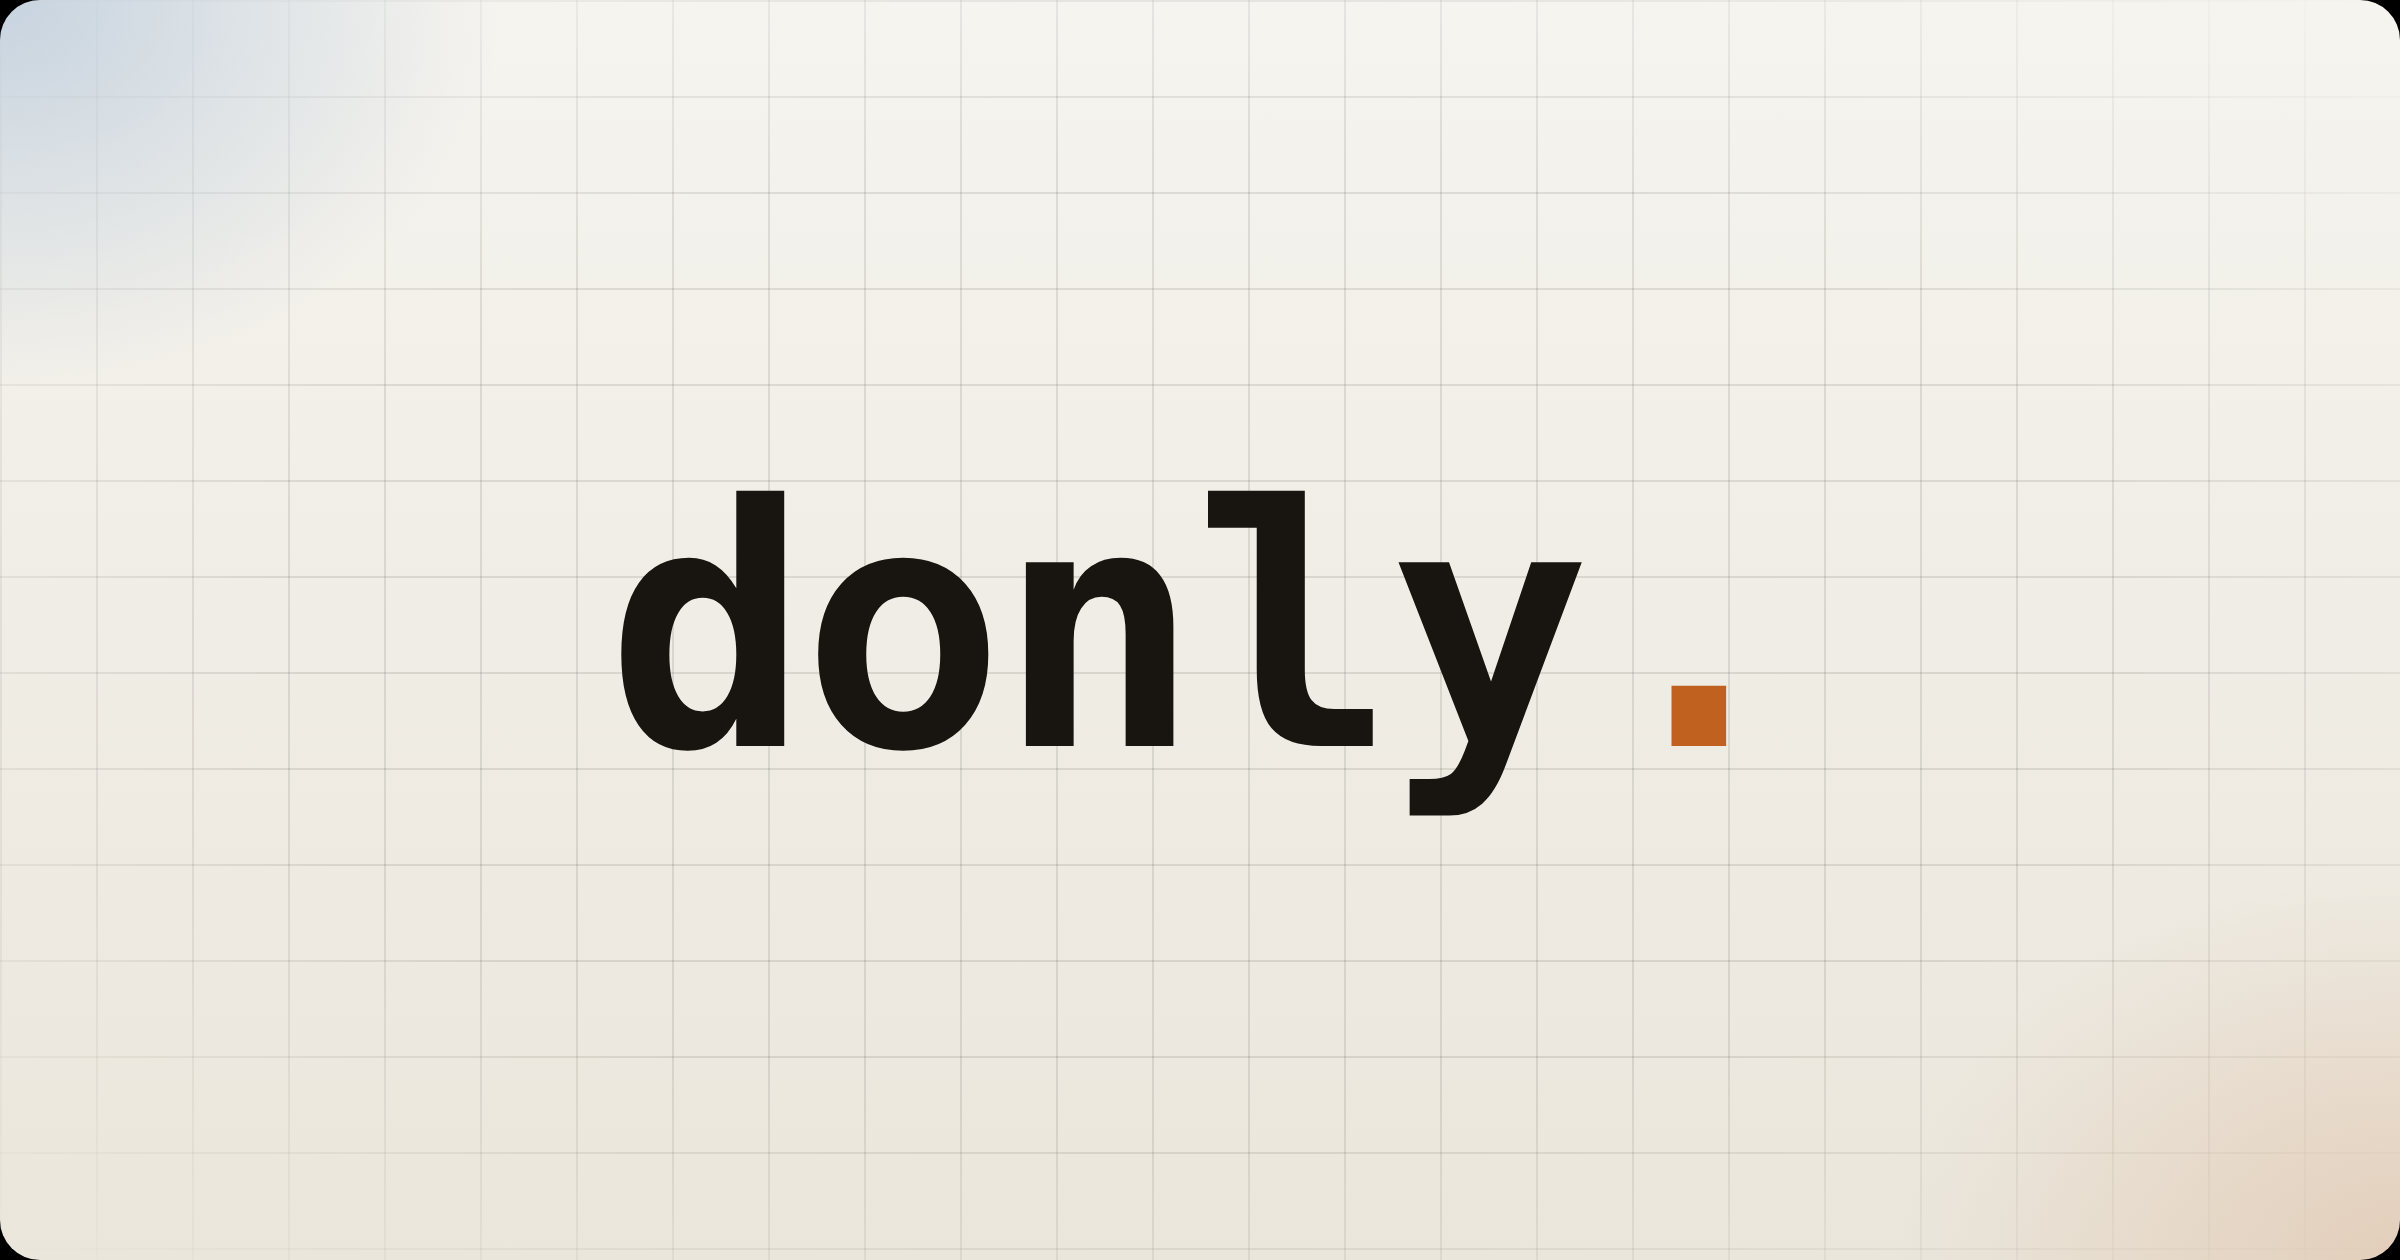
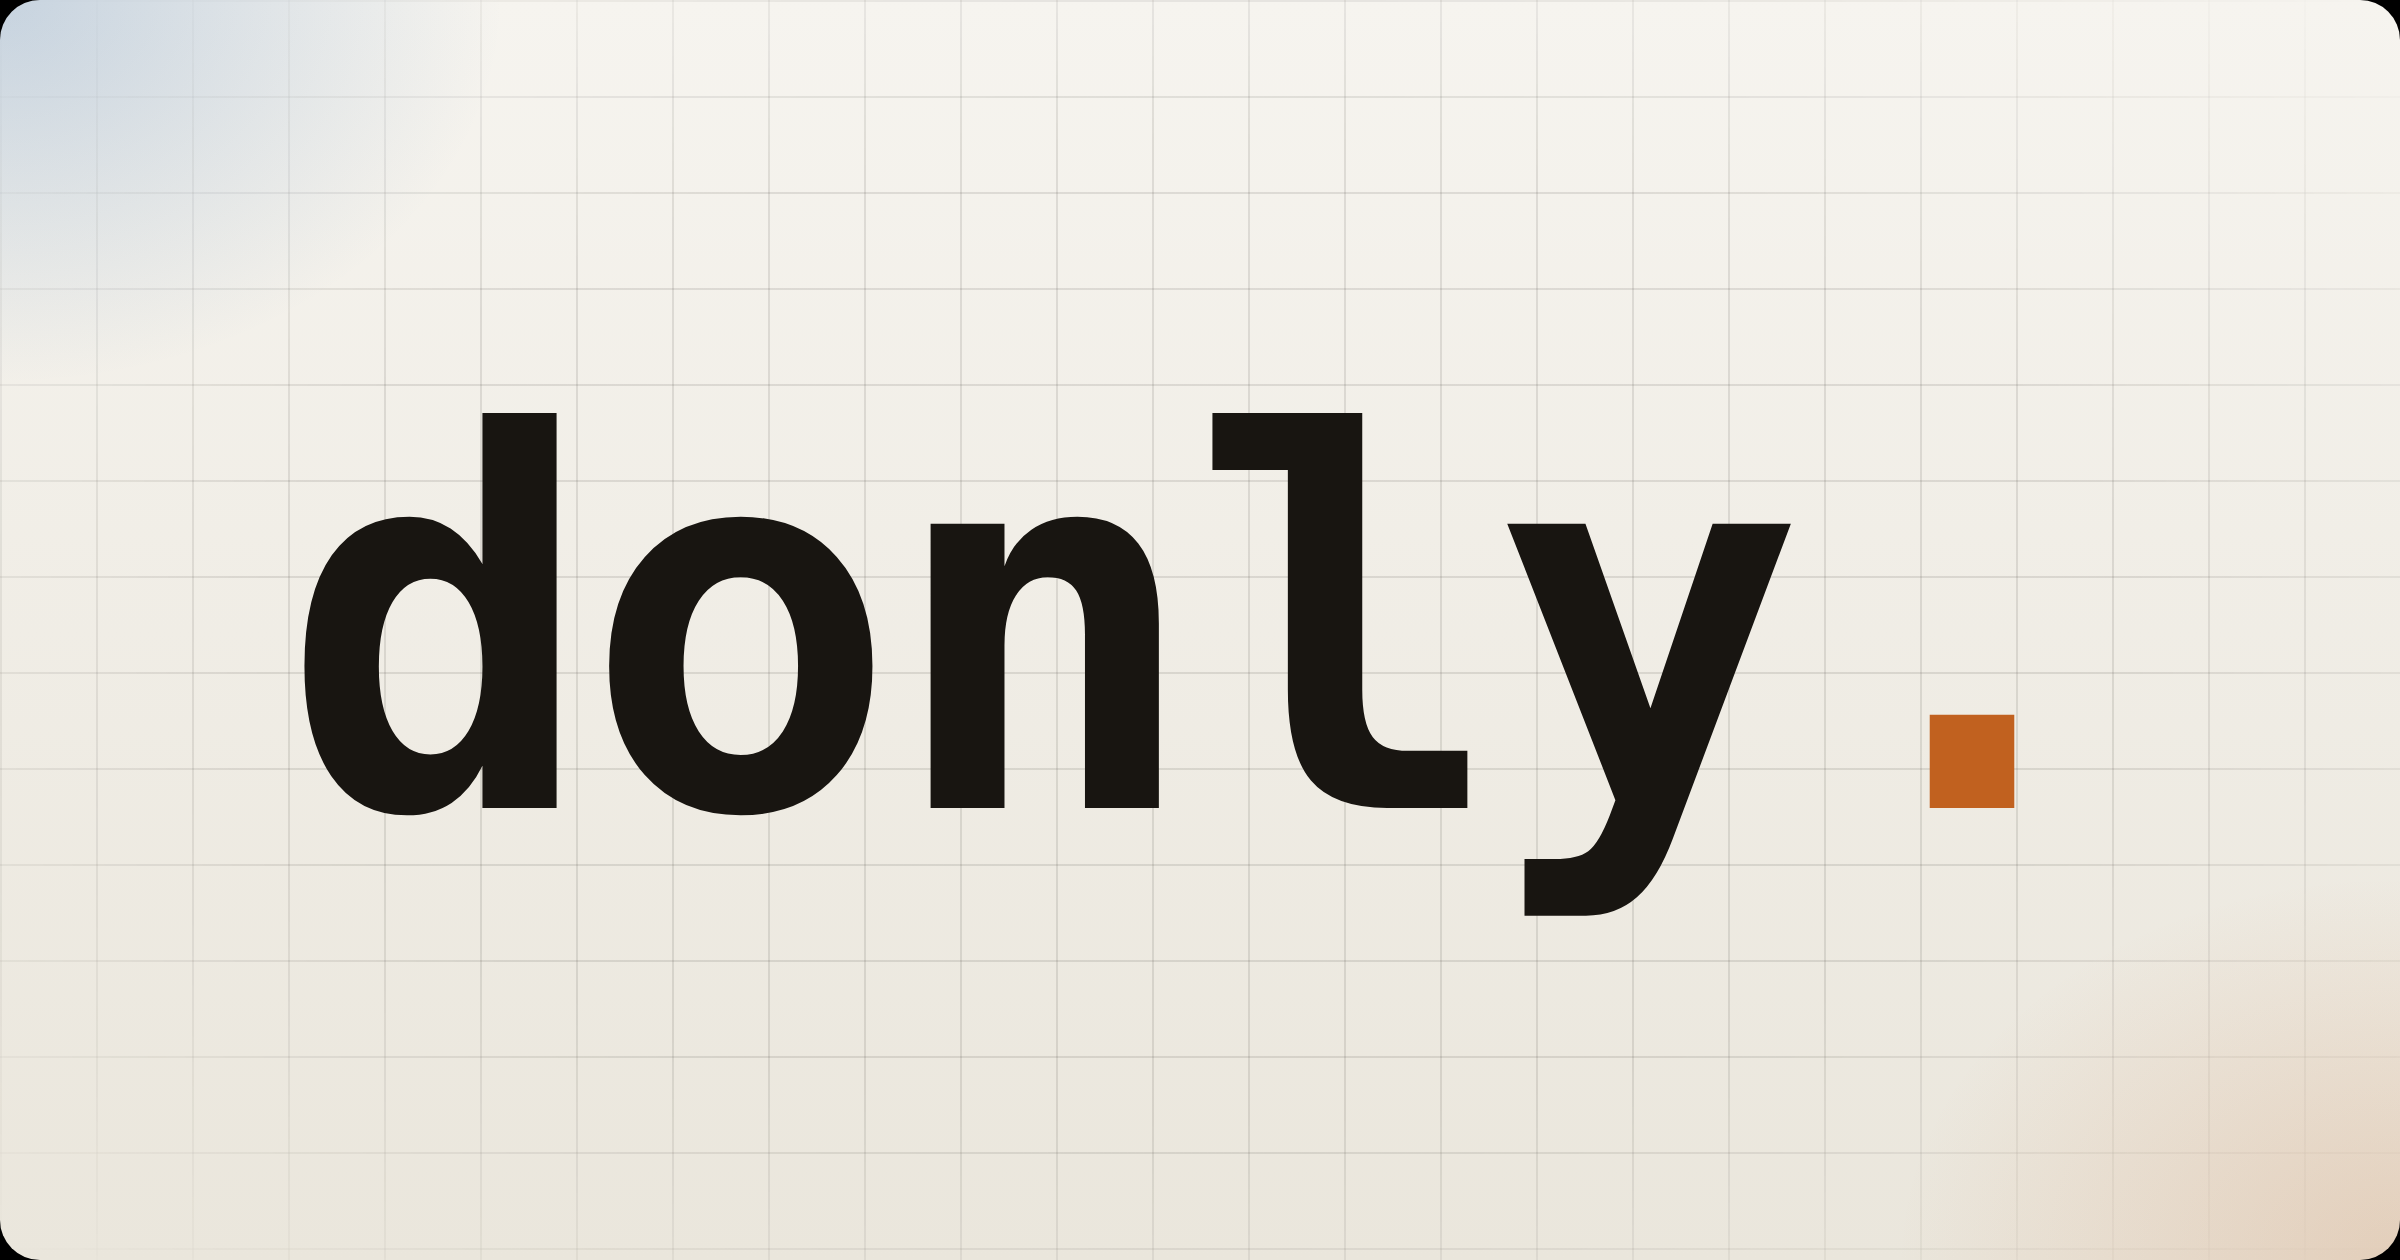
Shrink whitespace around variant 00 wordmark
Bumps the wordmark size from clamp(64px, 15vw, 168px) to
clamp(64px, 24vw, 260px) so "donly." fills most of the cover width
instead of leaving a large empty margin around a small mark. Updates
BRAND.md's dimensions spec to match, since variant 00 is the
reference implementation of that doc.

Claude-Session: https://claude.ai/code/session_01XwWKtRz3xN6gb9Ws9Yu3dT

Changed region(s): [[0.125, 0.3095, 0.75, 0.7429], [0.7812, 0.5571, 0.8438, 0.65]]

diff --git a/assets/brand/variant/00/cover.html b/assets/brand/variant/00/cover.html
@@ -124,7 +124,7 @@
           "JetBrains Mono", ui-monospace, SFMono-Regular, Menlo, monospace;
         font-weight: 800;
         letter-spacing: -0.02em;
-        font-size: clamp(64px, 15vw, 168px);
+        font-size: clamp(64px, 24vw, 260px);
         line-height: 1;
         color: var(--text);
         user-select: none;

diff --git a/assets/brand/BRAND.md b/assets/brand/BRAND.md
@@ -24,7 +24,7 @@
 
 - Lienzo base: 1200×630 px (formato estándar cover / social/og-image)
 - Responsive: escala manteniendo aspect-ratio 1200/630 a cualquier ancho
-- Tamaño del wordmark: `clamp(64px, 15vw, 168px)` — fluido entre mobile y desktop
+- Tamaño del wordmark: `clamp(64px, 24vw, 260px)` — fluido entre mobile y desktop, ocupando la mayor parte del ancho del cover
 
 **Colores**
 
